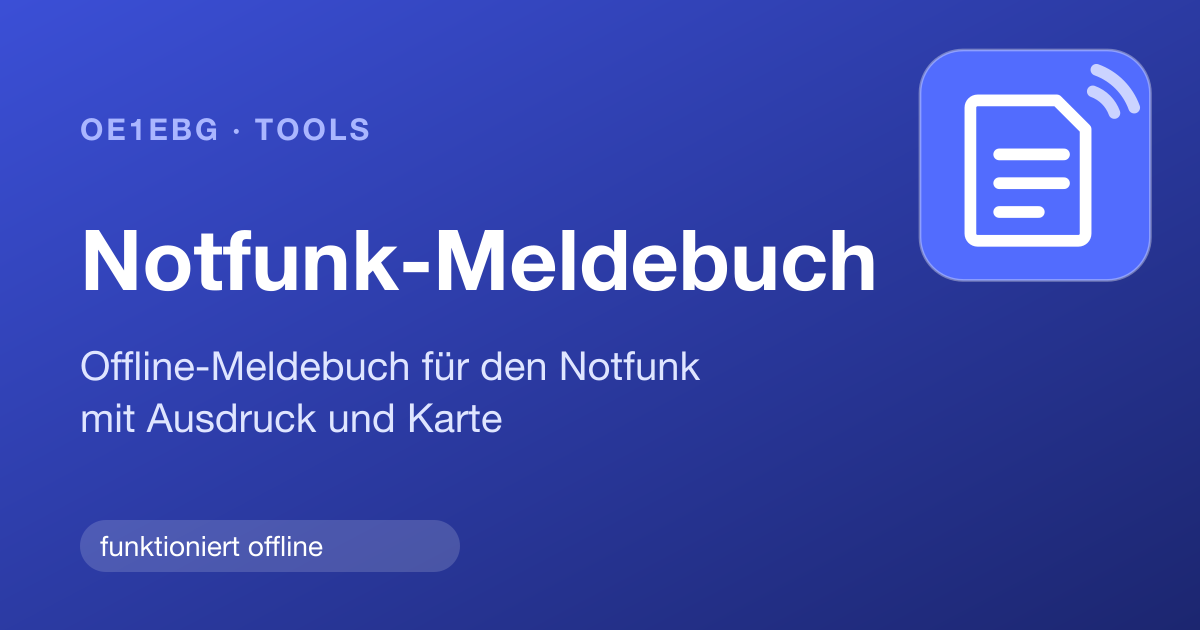
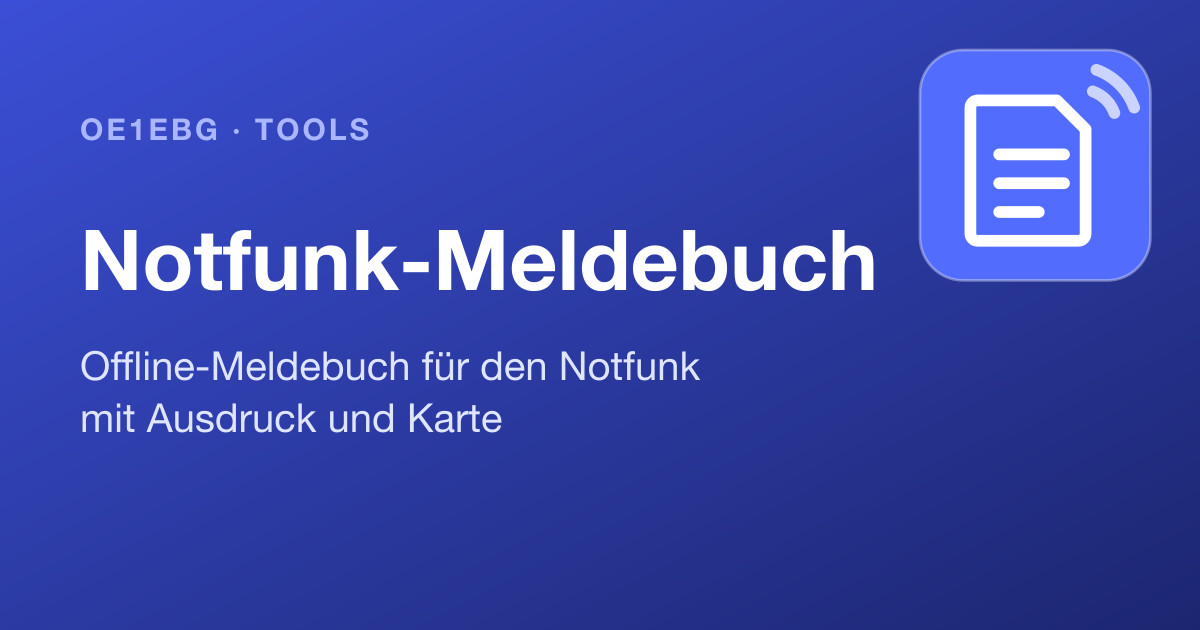
OG cards: drop offline/online badges and notes from cards and descriptions

Changed region(s): [[0.0617, 0.8143, 0.4008, 0.9349]]

diff --git a/tools/netlog/index.html b/tools/netlog/index.html
@@ -5,13 +5,13 @@
 <meta name="viewport" content="width=device-width, initial-scale=1">
 <title>Netlog</title>
 <meta name="color-scheme" content="light dark">
-<meta name="description" content="Notizen für Funkrunden: Stationen, Live-Notizen, „Ich bin dran“ und Rundenleitung. Funktioniert ohne Internet.">
+<meta name="description" content="Notizen für Funkrunden: Stationen, Live-Notizen, „Ich bin dran“ und Rundenleitung.">
 <!-- Link previews: a static card per tool (scripts/make_og_cards.py). Crawlers
      want an absolute og:image URL; a host that embeds the bundle can set it. -->
 <meta property="og:type" content="website">
 <meta property="og:site_name" content="OE1EBG Tools">
 <meta property="og:title" content="Netlog">
-<meta property="og:description" content="Notizen für Funkrunden: Stationen, Live-Notizen, „Ich bin dran“ und Rundenleitung. Funktioniert ohne Internet.">
+<meta property="og:description" content="Notizen für Funkrunden: Stationen, Live-Notizen, „Ich bin dran“ und Rundenleitung.">
 <meta property="og:image" content="og-card.png">
 <meta property="og:image:type" content="image/png">
 <meta property="og:image:width" content="1200">

diff --git a/tools/confirm/index.html b/tools/confirm/index.html
@@ -5,13 +5,13 @@
 <meta name="viewport" content="width=device-width, initial-scale=1">
 <title>Bestätigungsverkehr</title>
 <meta name="color-scheme" content="light dark">
-<meta name="description" content="Offline-Logbuch für Bestätigungs- und Check-in-Runden. Funktioniert ohne Internet.">
+<meta name="description" content="Offline-Logbuch für Bestätigungs- und Check-in-Runden.">
 <!-- Link previews: a static card per tool (scripts/make_og_cards.py). Crawlers
      want an absolute og:image URL; a host that embeds the bundle can set it. -->
 <meta property="og:type" content="website">
 <meta property="og:site_name" content="OE1EBG Tools">
 <meta property="og:title" content="Bestätigungsverkehr">
-<meta property="og:description" content="Offline-Logbuch für Bestätigungs- und Check-in-Runden. Funktioniert ohne Internet.">
+<meta property="og:description" content="Offline-Logbuch für Bestätigungs- und Check-in-Runden.">
 <meta property="og:image" content="og-card.png">
 <meta property="og:image:type" content="image/png">
 <meta property="og:image:width" content="1200">

diff --git a/tools/adif/index.html b/tools/adif/index.html
@@ -5,13 +5,13 @@
 <meta name="viewport" content="width=device-width, initial-scale=1">
 <title>ADIF Editor</title>
 <meta name="color-scheme" content="light dark">
-<meta name="description" content="ADIF-Logs (.adi) ansehen, prüfen und bearbeiten – im Browser, ohne Upload.">
+<meta name="description" content="ADIF-Logs (.adi) ansehen, prüfen und bearbeiten.">
 <!-- Link previews: a static card per tool (scripts/make_og_cards.py). Crawlers
      want an absolute og:image URL; a host that embeds the bundle can set it. -->
 <meta property="og:type" content="website">
 <meta property="og:site_name" content="OE1EBG Tools">
 <meta property="og:title" content="ADIF-Editor">
-<meta property="og:description" content="ADIF-Logs (.adi) ansehen, prüfen und bearbeiten – im Browser, ohne Upload.">
+<meta property="og:description" content="ADIF-Logs (.adi) ansehen, prüfen und bearbeiten.">
 <meta property="og:image" content="og-card.png">
 <meta property="og:image:type" content="image/png">
 <meta property="og:image:width" content="1200">

diff --git a/tools/sota-alerts/index.html b/tools/sota-alerts/index.html
@@ -5,13 +5,13 @@
 <meta name="viewport" content="width=device-width, initial-scale=1">
 <title>SOTA Alerts Map</title>
 <meta name="color-scheme" content="light dark">
-<meta name="description" content="SOTA alerts on a map. Unofficial; uses SOTA's public API and needs an internet connection.">
+<meta name="description" content="SOTA alerts on a map.">
 <!-- Link previews: a static card per tool (scripts/make_og_cards.py). Crawlers
      want an absolute og:image URL; a host that embeds the bundle can set it. -->
 <meta property="og:type" content="website">
 <meta property="og:site_name" content="OE1EBG Tools">
 <meta property="og:title" content="SOTA Alerts Map">
-<meta property="og:description" content="SOTA alerts on a map. Unofficial; uses SOTA's public API and needs an internet connection.">
+<meta property="og:description" content="SOTA alerts on a map.">
 <meta property="og:image" content="og-card.png">
 <meta property="og:image:type" content="image/png">
 <meta property="og:image:width" content="1200">

diff --git a/scripts/make_og_cards.py b/scripts/make_og_cards.py
@@ -15,13 +15,13 @@ from pathlib import Path
 
 TOOLS_DIR = Path(__file__).resolve().parent.parent / "tools"
 
-# tool -> (title, tagline lines, badge text)
+# tool -> (title, tagline lines)
 CARDS = {
-    "confirm": ("Bestätigungsverkehr", ["Offline-Logbuch für Bestätigungs-", "und Check-in-Runden"], "funktioniert offline"),
-    "notfunk": ("Notfunk-Meldebuch", ["Offline-Meldebuch für den Notfunk", "mit Ausdruck und Karte"], "funktioniert offline"),
-    "netlog": ("Netlog", ["Notizen für Funkrunden:", "Stationen, Live-Notizen, Rundenleitung"], "funktioniert offline"),
-    "adif": ("ADIF-Editor", ["ADIF-Logs (.adi) ansehen,", "prüfen und bearbeiten"], "im Browser, ohne Upload"),
-    "sota-alerts": ("SOTA Alerts Map", ["SOTA alerts on a map", "inoffiziell, braucht Internet"], "online only"),
+    "confirm": ("Bestätigungsverkehr", ["Offline-Logbuch für Bestätigungs-", "und Check-in-Runden"]),
+    "notfunk": ("Notfunk-Meldebuch", ["Offline-Meldebuch für den Notfunk", "mit Ausdruck und Karte"]),
+    "netlog": ("Netlog", ["Notizen für Funkrunden:", "Stationen, Live-Notizen, Rundenleitung"]),
+    "adif": ("ADIF-Editor", ["ADIF-Logs (.adi) ansehen,", "prüfen und bearbeiten"]),
+    "sota-alerts": ("SOTA Alerts Map", ["SOTA alerts on a map"]),
 }
 
 GLYPHS = {
@@ -42,7 +42,7 @@ def icon_inner(tool: str) -> str:
 
 
 def card(tool: str) -> str:
-    title, lines, badge = CARDS[tool]
+    title, lines = CARDS[tool]
     tag = "".join(
         f'<text x="80" y="{380 + i * 52}" font-size="40" fill="#dfe5ff">{html.escape(t)}</text>'
         for i, t in enumerate(lines))
@@ -56,8 +56,6 @@ def card(tool: str) -> str:
   <text x="80" y="140" font-size="30" font-weight="700" letter-spacing="3" fill="#aab6ff">OE1EBG · TOOLS</text>
   <text x="80" y="290" font-size="84" font-weight="700" fill="#fff">{html.escape(title)}</text>
   {tag}
-  <rect x="80" y="520" rx="26" width="{40 + 17 * len(badge)}" height="52" fill="#fff" fill-opacity=".16"/>
-  <text x="100" y="556" font-size="28" fill="#fff">{html.escape(badge)}</text>
 </svg>
 """
 
